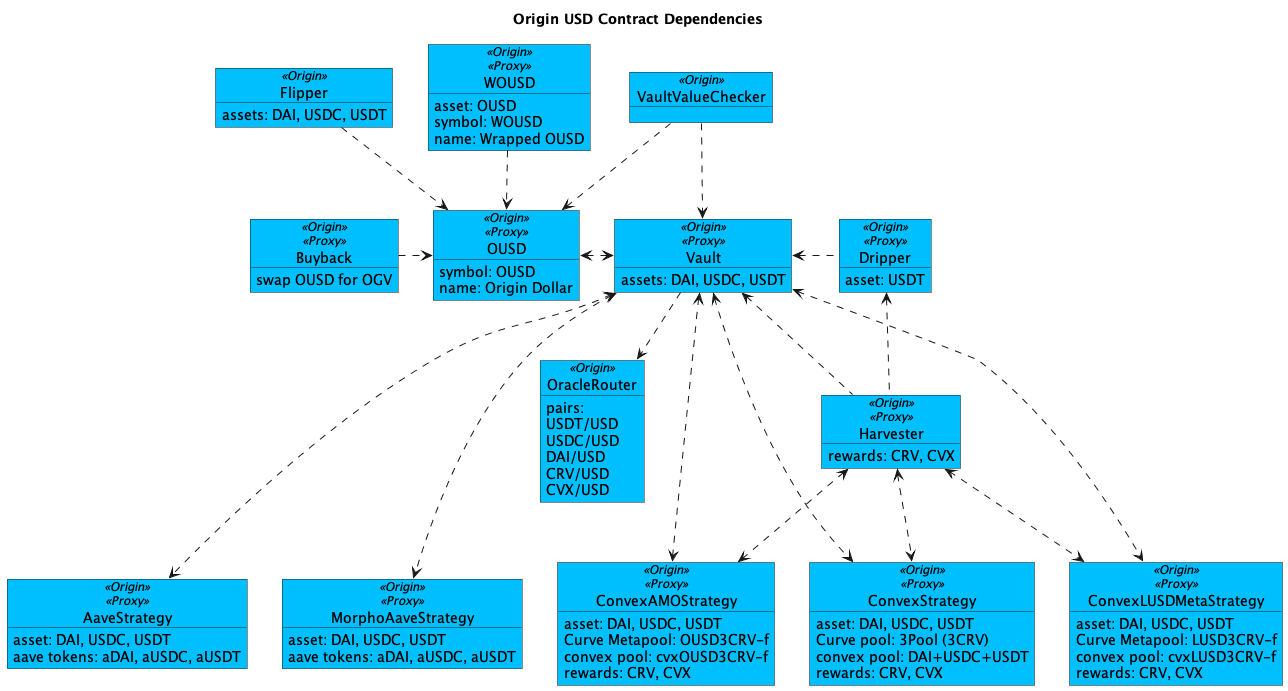
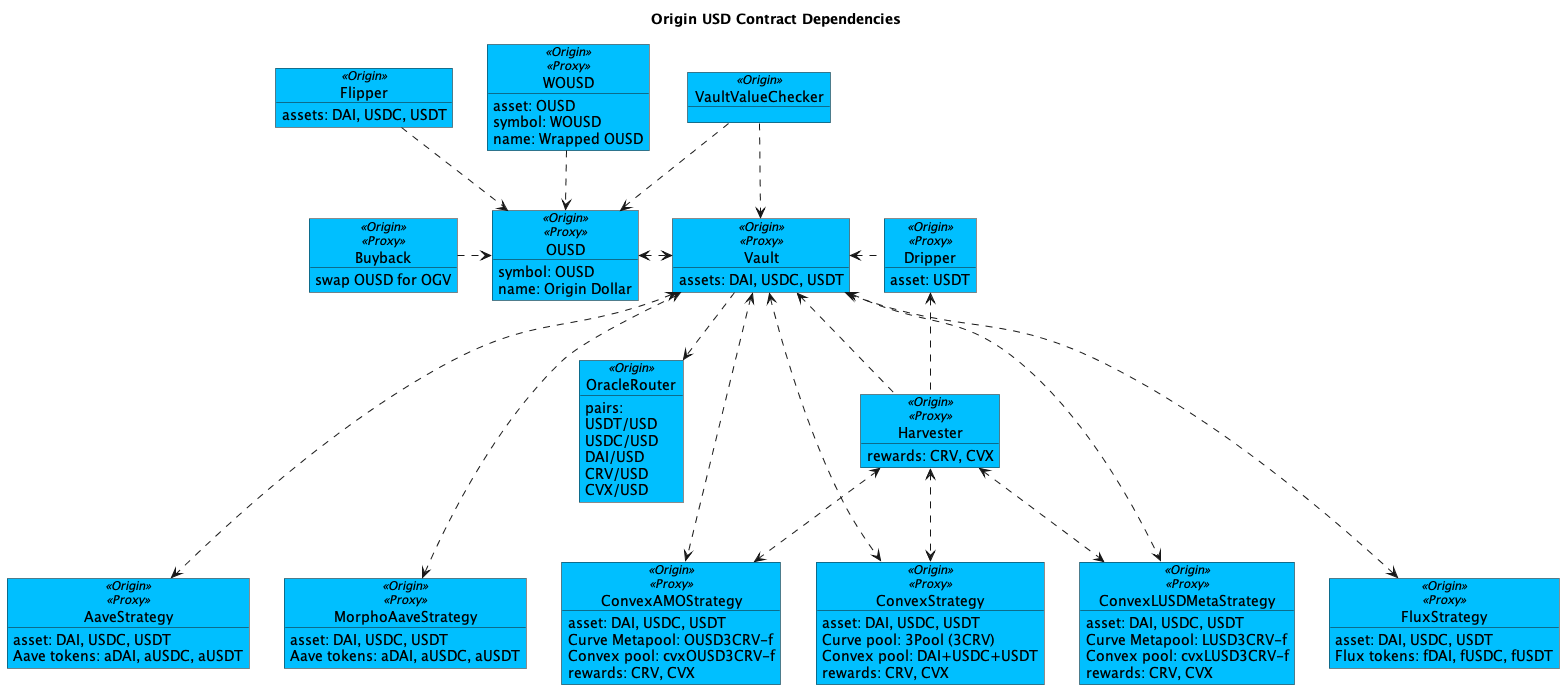
Flux strategy review (#1747)
* Gas improvements
Natspec updates
Fixed deploy script to use Timelock contract as governor
Added more fork tests

* Fix swap fork tests

* Added missing awaits to Compound unit test

* Added Flux contract to OUSD contracts

---------

diff --git a/contracts/test/strategies/flux.fork-test.js b/contracts/test/strategies/flux.fork-test.js
@@ -1,5 +1,6 @@
 const { expect } = require("chai");
 
+const addresses = require("../../utils/addresses");
 const {
   fluxStrategyFixtureSetup,
   impersonateAndFundContract,
@@ -25,6 +26,38 @@ forkOnlyDescribe("Flux strategy", function () {
     await f();
   });
 
+  describe("Post deployment", () => {
+    it("Should be initialized", async () => {
+      const { fluxStrategy } = fixture;
+
+      expect(await fluxStrategy.supportsAsset(addresses.mainnet.DAI)).to.equal(
+        true
+      );
+      expect(await fluxStrategy.supportsAsset(addresses.mainnet.USDC)).to.equal(
+        true
+      );
+      expect(await fluxStrategy.supportsAsset(addresses.mainnet.USDT)).to.equal(
+        true
+      );
+      expect(await fluxStrategy.assetToPToken(addresses.mainnet.DAI)).to.equal(
+        addresses.mainnet.fDAI
+      );
+      expect(await fluxStrategy.assetToPToken(addresses.mainnet.USDC)).to.equal(
+        addresses.mainnet.fUSDC
+      );
+      expect(await fluxStrategy.assetToPToken(addresses.mainnet.USDT)).to.equal(
+        addresses.mainnet.fUSDT
+      );
+      expect(await fluxStrategy.governor()).to.equal(
+        addresses.mainnet.Timelock
+      );
+      expect(await fluxStrategy.platformAddress()).to.equal(addresses.dead);
+      expect(await fluxStrategy.vaultAddress()).to.equal(
+        addresses.mainnet.VaultProxy
+      );
+      expect(await fluxStrategy.harvesterAddress()).to.equal(addresses.zero);
+    });
+  });
   describe("Mint", function () {
     it("Should deploy USDC to Flux strategy", async function () {
       const { matt, usdc } = fixture;
@@ -92,6 +125,39 @@ forkOnlyDescribe("Flux strategy", function () {
 
       expect(vaultUsdcDiff).to.approxEqualTolerance(usdcUnits, 1);
       expect(vaultUsdtDiff).to.approxEqualTolerance(usdtUnits, 1);
+    });
+  });
+
+  describe("Administration", function () {
+    it("Anyone should be able to approve all assets", async function () {
+      const { dai, usdc, usdt, josh, fluxStrategy } = fixture;
+      const tx = await fluxStrategy.connect(josh).safeApproveAllTokens();
+      await expect(tx).to.emit(dai, "Approval");
+      await expect(tx).to.emit(usdc, "Approval");
+      await expect(tx).to.emit(usdt, "Approval");
+    });
+    it("Only governor should be able to remove a platform token", async function () {
+      const { dai, fdai, usdc, fusdc, usdt, fusdt, fluxStrategy, timelock } =
+        fixture;
+
+      const tx = await fluxStrategy.connect(timelock).removePToken(0);
+
+      await expect(tx)
+        .to.emit(fluxStrategy, "PTokenRemoved")
+        .withArgs(dai.address, fdai.address);
+
+      expect(await fluxStrategy.supportsAsset(dai.address)).to.equal(false);
+      expect(await fluxStrategy.supportsAsset(usdc.address)).to.equal(true);
+      expect(await fluxStrategy.supportsAsset(usdt.address)).to.equal(true);
+      expect(await fluxStrategy.assetToPToken(dai.address)).to.equal(
+        addresses.zero
+      );
+      expect(await fluxStrategy.assetToPToken(usdc.address)).to.equal(
+        fusdc.address
+      );
+      expect(await fluxStrategy.assetToPToken(usdt.address)).to.equal(
+        fusdt.address
+      );
     });
   });
 });

diff --git a/contracts/utils/addresses.js b/contracts/utils/addresses.js
@@ -24,7 +24,7 @@ addresses.mainnet.WhaleAddresses =
   "0x7f39c581f595b53c5cb19bd0b3f8da6c935e2ca0,0xf04a5cc80b1e94c69b48f5ee68a08cd2f09a7c3e,0xac3e018457b222d93114458476f3e3416abbe38f,0xc6424e862f1462281b0a5fac078e4b63006bdebf,0xba12222222228d8ba445958a75a0704d566bf2c8";
 
 // Native stablecoins
-addresses.mainnet.DAI = "0x6b175474e89094c44da98b954eedeac495271d0f";
+addresses.mainnet.DAI = "0x6B175474E89094C44Da98b954EedeAC495271d0F";
 addresses.mainnet.USDC = "0xA0b86991c6218b36c1d19D4a2e9Eb0cE3606eB48";
 addresses.mainnet.USDT = "0xdAC17F958D2ee523a2206206994597C13D831ec7";
 addresses.mainnet.TUSD = "0x0000000000085d4780B73119b644AE5ecd22b376";
@@ -115,7 +115,7 @@ addresses.mainnet.chainlinkcbETH_ETH =
 addresses.mainnet.WETH = "0xC02aaA39b223FE8D0A0e5C4F27eAD9083C756Cc2";
 // Deployed OUSD contracts
 addresses.mainnet.Guardian = "0xbe2AB3d3d8F6a32b96414ebbd865dBD276d3d899"; // ERC 20 owner multisig.
-addresses.mainnet.VaultProxy = "0xe75d77b1865ae93c7eaa3040b038d7aa7bc02f70";
+addresses.mainnet.VaultProxy = "0xE75D77B1865Ae93c7eaa3040B038D7aA7BC02F70";
 addresses.mainnet.Vault = "0xf251Cb9129fdb7e9Ca5cad097dE3eA70caB9d8F9";
 addresses.mainnet.OUSDProxy = "0x2A8e1E676Ec238d8A992307B495b45B3fEAa5e86";
 addresses.mainnet.OUSD = "0xB72b3f5523851C2EB0cA14137803CA4ac7295f3F";
@@ -147,6 +147,7 @@ addresses.mainnet.MorphoStrategyProxy =
   "0x5A4eEe58744D1430876d5cA93cAB5CcB763C037D";
 addresses.mainnet.MorphoAaveStrategyProxy =
   "0x79F2188EF9350A1dC11A062cca0abE90684b0197";
+addresses.mainnet.HarvesterProxy = "0x21Fb5812D70B3396880D30e90D9e5C1202266c89";
 
 addresses.mainnet.UniswapOracle = "0xc15169Bad17e676b3BaDb699DEe327423cE6178e";
 addresses.mainnet.CompensationClaims =
@@ -168,6 +169,8 @@ addresses.mainnet.OETHVaultProxy = "0x39254033945aa2e4809cc2977e7087bee48bd7ab";
 addresses.mainnet.OETHZapper = "0x9858e47BCbBe6fBAC040519B02d7cd4B2C470C66";
 addresses.mainnet.FraxETHStrategy =
   "0x3ff8654d633d4ea0fae24c52aec73b4a20d0d0e5";
+addresses.mainnet.OETHHarvesterProxy =
+  "0x0D017aFA83EAce9F10A8EC5B6E13941664A6785C";
 
 // Tokens
 addresses.mainnet.sfrxETH = "0xac3E018457B222d93114458476f3E3416Abbe38F";

diff --git a/contracts/test/vault/oeth_vault.fork-test.js b/contracts/test/vault/oeth_vault.fork-test.js
@@ -307,7 +307,7 @@ forkOnlyDescribe("ForkTest: OETH Vault", function () {
           from: "WETH",
           to: "rETH",
           fromAmount: 100,
-          minToAssetAmount: 92,
+          minToAssetAmount: 90,
         },
         {
           from: "WETH",
@@ -367,7 +367,7 @@ forkOnlyDescribe("ForkTest: OETH Vault", function () {
           from: "frxETH",
           to: "rETH",
           fromAmount: 25,
-          minToAssetAmount: 23,
+          minToAssetAmount: 21,
         },
         {
           from: "frxETH",
@@ -394,13 +394,6 @@ forkOnlyDescribe("ForkTest: OETH Vault", function () {
           fromAmount: 100,
           minToAssetAmount: 99.9,
           protocols: "UNISWAP_V3",
-        },
-        {
-          from: "WETH",
-          to: "rETH",
-          fromAmount: 100,
-          minToAssetAmount: 90,
-          protocols: "ROCKET_POOL",
         },
         {
           from: "WETH",

diff --git a/contracts/test/vault/compound.js b/contracts/test/vault/compound.js
@@ -604,10 +604,10 @@ describe("Vault with Compound strategy", function () {
     for (const [user, startBalance] of usersWithBalances) {
       for (const [asset, units] of assetsWithUnits) {
         for (const amount of [5.09, 10.32, 20.99, 100.01]) {
-          asset
+          await asset
             .connect(user)
             .approve(vault.address, await units(amount.toString()));
-          vault
+          await vault
             .connect(user)
             .mint(asset.address, await units(amount.toString()), 0);
           await expect(user).has.an.approxBalanceOf(
